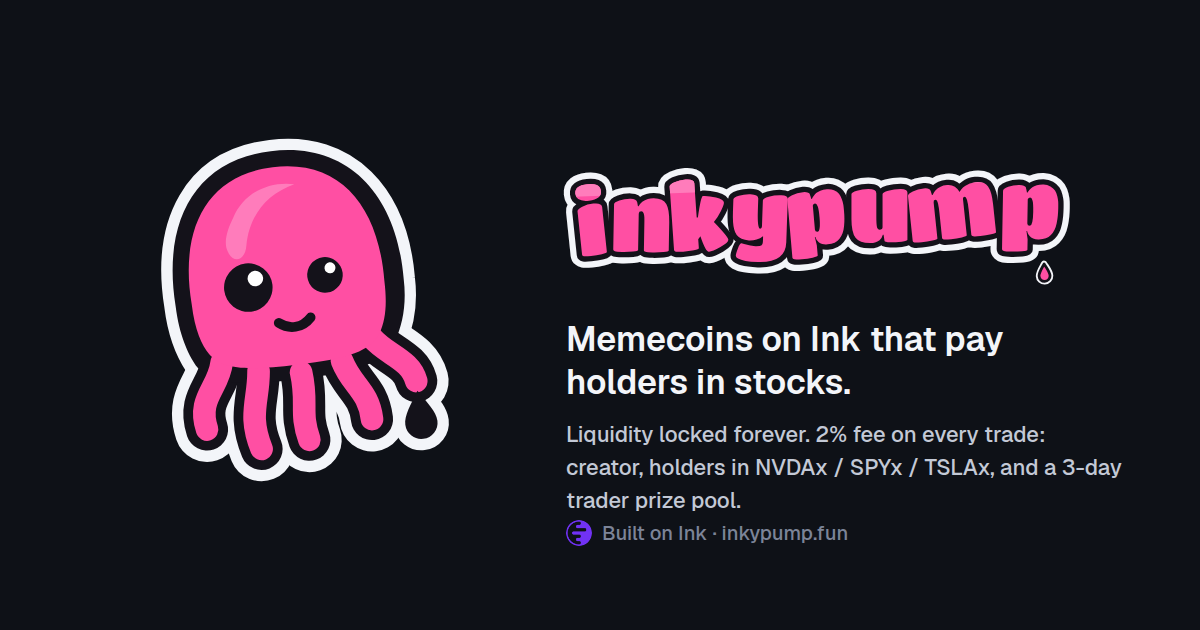
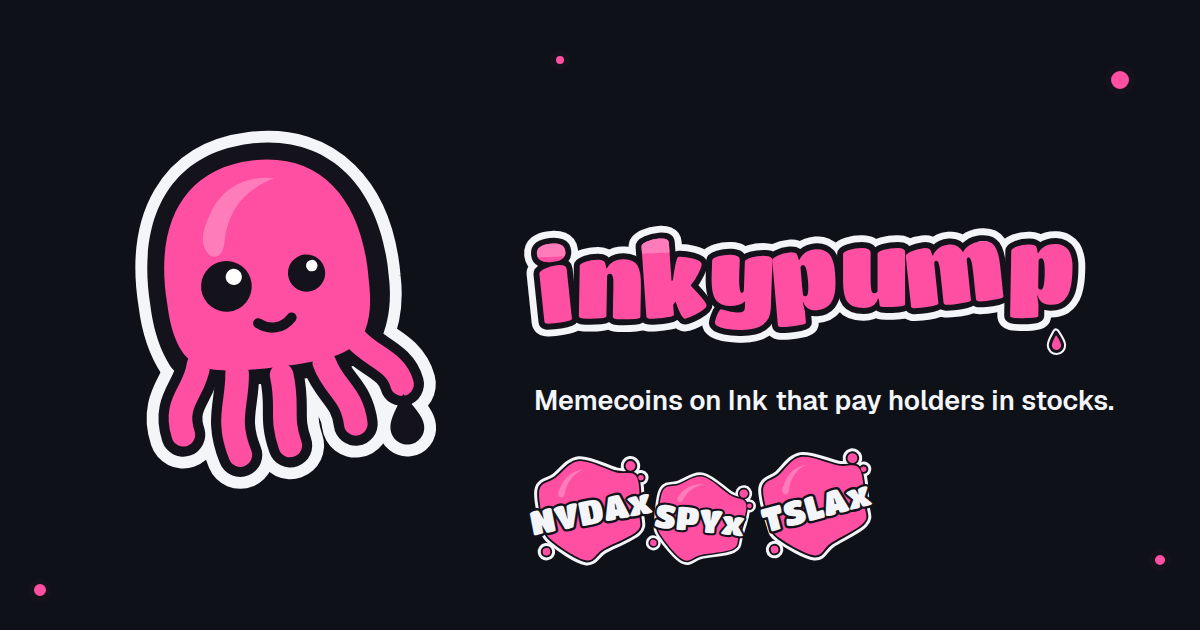
Replica: simpler social card
Inky, the sticker wordmark, a one-line tagline and the stock stickers; the
paragraph and footer line are gone.

Claude-Session: https://claude.ai/code/session_018647HdkJmRvZZjLKjj8BXD

diff --git a/web/replica/logo-render.js b/web/replica/logo-render.js
@@ -13,11 +13,13 @@ const { chromium } = require('playwright'); const fs=require('fs'); const wordma
  const wm=(fg)=>`<div style="display:flex;align-items:center;gap:18px;height:140px;padding:0 24px"><div style="width:120px;height:120px">${sz(logo,120)}</div><div style="padding-top:4px">${wordmark(400,{edge:fg==='#14121a'?'#0e1117':'#f3f5f9'})}</div></div>`;
  await shot(wm('#f3f5f9'),600,140,'img/wordmark-dark.png','#0e1117');
  await shot(wm('#14121a'),600,140,'img/wordmark-light.png','#ffffff');
+ const def=fs.readFileSync('img/t-default.svg','utf8'); const blobPath=def.match(/<path d="(M[^"]+)"\/>/)[1]; const drops=def.match(/<circle[^>]+\/>(<circle[^>]+\/>)*/)[0];
+ const blot=(txt,s,rot=-5,fsz=78)=>`<svg xmlns="http://www.w3.org/2000/svg" viewBox="0 0 256 256" width="${s}" height="${s}"><g transform="rotate(${rot} 128 128)"><g fill="#f3f5f9" stroke="#f3f5f9" stroke-width="18" stroke-linejoin="round"><path d="${blobPath}"/>${drops}</g><g fill="#14121a" stroke="#14121a" stroke-width="7" stroke-linejoin="round"><path d="${blobPath}"/>${drops}</g><g fill="#ff4fa3"><path d="${blobPath}"/>${drops}</g><path fill="#ff7cbb" d="M78 86c8-18 26-30 48-30-20 6-34 20-40 40-2 8-12 8-12-2 0-3 2-5 4-8z"/><text x="128" y="158" text-anchor="middle" font-family="'Titan One'" font-size="${fsz}" fill="#f3f5f9" stroke="#14121a" stroke-width="9" stroke-linejoin="round" paint-order="stroke" transform="rotate(-3 128 140)">${txt}</text></g></svg>`;
  await shot(`<div style="position:relative;width:1200px;height:630px;background:#0e1117;color:#f3f5f9;font-family:Geist;overflow:hidden">
-   <div style="position:absolute;left:70px;top:95px;width:440px;height:440px">${sz(logo,440)}</div>
-   <div style="position:absolute;left:560px;top:100px">${wordmark(560)}</div>
-   <div style="position:absolute;left:566px;top:318px;font:600 34px Geist;line-height:1.25;color:#f3f5f9;width:560px">Memecoins on Ink that pay holders in stocks.</div>
-   <div style="position:absolute;left:566px;top:418px;font:500 22px Geist;color:#c3c9d6;width:560px;line-height:1.5">Liquidity locked forever. 2% fee on every trade: creator, holders in NVDAx / SPYx / TSLAx, and a 3-day trader prize pool.</div>
-   <div style="position:absolute;left:566px;top:520px;display:flex;align-items:center;gap:10px;font:500 20px Geist;color:#7c8498"><img src="${ink}" style="width:26px;height:26px;border-radius:50%">Built on Ink · inkypump.fun</div>
+   <div style="position:absolute;left:40px;top:85px;width:460px;height:460px">${sz(logo,460)}</div>
+   <div style="position:absolute;left:520px;top:150px">${wordmark(620)}</div>
+   <div style="position:absolute;left:534px;top:385px;font:600 27px Geist;line-height:1.2;white-space:nowrap">Memecoins on Ink that pay holders in stocks.</div>
+   <div style="position:absolute;left:520px;top:438px">${blot('NVDAx',140,-8,62)}</div><div style="position:absolute;left:640px;top:458px">${blot('SPYx',120,9,70)}</div><div style="position:absolute;left:745px;top:433px">${blot('TSLAx',140,-12,62)}</div>
+   <svg style="position:absolute;left:0;top:0" width="1200" height="630" viewBox="0 0 1200 630" fill="#ff4fa3" stroke="#14121a" stroke-width="6"><circle cx="1120" cy="80" r="12"/><circle cx="1160" cy="560" r="8"/><circle cx="40" cy="590" r="9"/><circle cx="560" cy="60" r="7"/></svg>
  </div>`,1200,630,'img/og.png','#0e1117');
  await b.close(); })();
